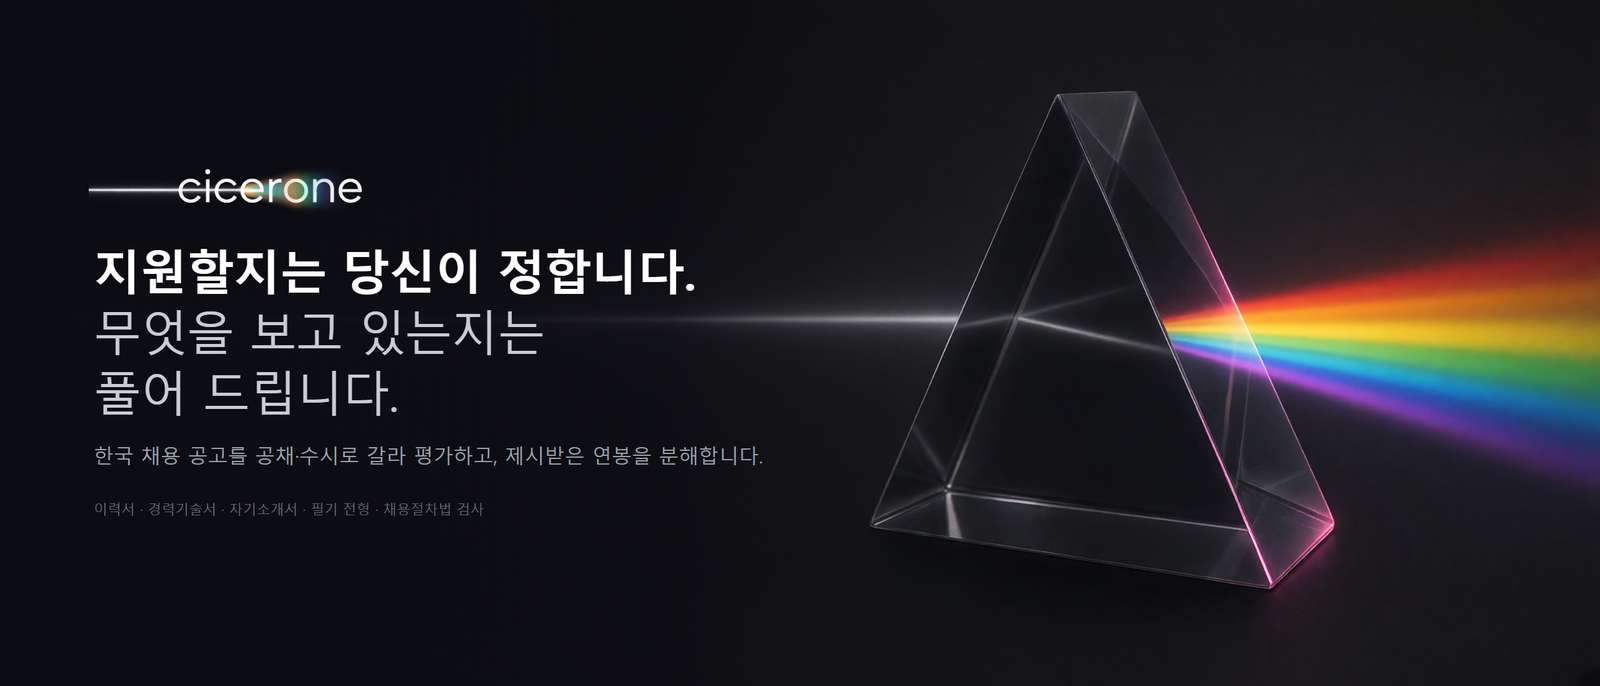
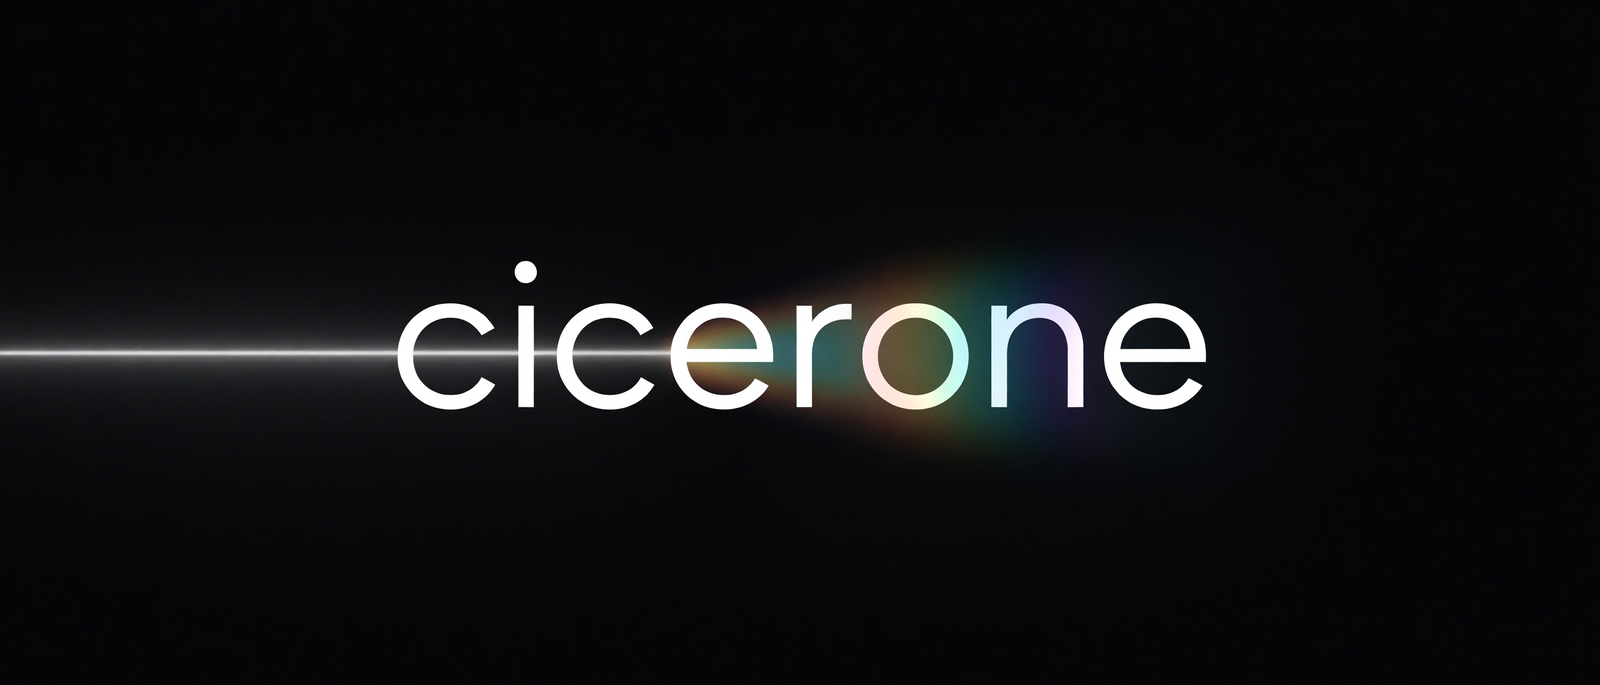
배너를 시안 그대로 되돌린다 — 이름만 나오게
영웅님이 워드마크 4안에서 A를 고르셨을 때 나는 그것을 배너에 얹을 부품
선택으로 읽었다. 영웅님은 그 시안 자체가 배너라고 보셨다.

  "나는 저 제품 이름만 나오고 프리즘도 안나오는줄"

돌아보면 신호가 있었다. "이름도 배너에 맞는 스타일로 타이포 AI GEN해서
만들자"는 이름 타이포가 배너의 주인공이라는 뜻이었는데, 나는 배경 위에
놓을 로고로 읽었다. 두 읽기가 갈리는 자리에서 묻지 않았다.

  · 프리즘 배경과 카피 세 줄을 걷어내고 워드마크 시안 그 자체를 쓴다
  · 이름만 나오므로 언어 구분이 없다. banner.en.png 를 지우고 파일 하나로
  · 안 쓰게 된 wordmark.png 삭제

자르기는 감으로 하지 않았다. 글자가 세로 어디에 앉아 있는지 밝기로 재서
(중심 y=776 / 전체 1584) 그 중심으로 21:9 를 떴다. 가운데라고 가정하면
빛줄기가 어긋난다.

검사 5055 통과 / 2 실패 — 하나는 기존 DNS 차단, 하나는 락 충돌로
단독 재실행에서 49/49 통과 확인.

diff --git a/README.md b/README.md
@@ -1,4 +1,4 @@
-<img src="docs/banner.png" alt="cicerone — 지원할지는 당신이 정합니다. 무엇을 보고 있는지는 풀어 드립니다." width="100%">
+<img src="docs/banner.png" alt="cicerone" width="100%">
 
 한국 채용 공고를 평가하고 지원 서류를 준비하는 명령줄 도구입니다. 클로드 코드나 코덱스 같은 인공지능 명령줄 도구 안에서 돌아가고, 파일은 전부 내 컴퓨터에 남습니다.
 

diff --git a/README.en.md b/README.en.md
@@ -1,4 +1,4 @@
-<img src="docs/banner.en.png" alt="cicerone — Whether to apply is your call. What you are looking at, this takes apart." width="100%">
+<img src="docs/banner.png" alt="cicerone" width="100%">
 
 A command-line tool for evaluating Korean job postings and preparing application documents. It runs inside an AI coding CLI (Claude Code, Codex, and others) and keeps every file on your own machine.
 
